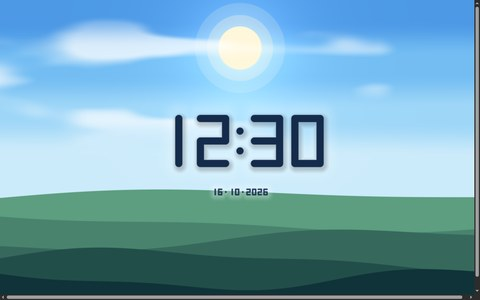
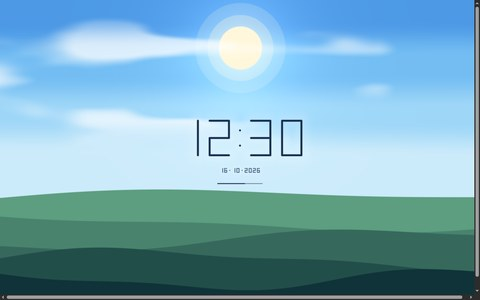
Relógio do sol e da lua com o relógio do relogio-topografia; ding-menu.sh --system aplica o submenu na hora

Changed region(s): [[0.3438, 0.36, 0.6875, 0.66]]

diff --git a/README.md b/README.md
@@ -52,7 +52,9 @@ repositório APT assinado e o catálogo no GitHub Pages
 - **Botão direito da área de trabalho**: `tools/ding-menu.sh` põe um submenu
   GprEngine (galeria, próximo, anterior, recarregar) no menu do Desktop Icons
   do Ubuntu. Ele usa uma cópia da extensão em `~/.local/share`, sem mexer no
-  sistema; depois de atualizar o Ubuntu, rode de novo. Para desfazer:
+  sistema, e vale na próxima entrada na sessão. Com `--system` ele aplica
+  também no arquivo de `/usr/share` (com sudo) e o submenu aparece na hora.
+  Depois de atualizar o Ubuntu, rode de novo. Para desfazer:
   `tools/ding-menu.sh --remove`.
 - **Linha de comando**:
 
